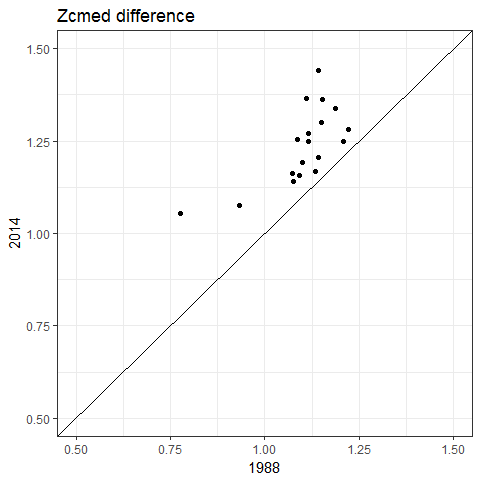
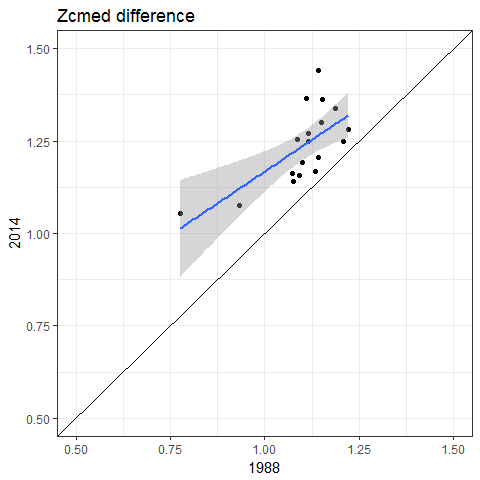
2014 v 1988 regressions

Changed region(s): [[0.375, 0.1875, 0.75, 0.5938]]

diff --git a/tampa_comp2.html b/tampa_comp2.html
@@ -150,14 +150,64 @@ tocmp &lt;- unite(sec, 'lon_lat', Longitude, Latitude, remove = F) %&gt;%
   spread(yr, z_c_all) %&gt;% 
   mutate(zcdif = `2014` - `1988`)
 
-# light requirements between years
+range(tocmp$`1988`)</code></pre>
+<pre><code>## [1] 0.7755338 1.2216710</code></pre>
+<pre class="r"><code>range(tocmp$`2014`)</code></pre>
+<pre><code>## [1] 1.054655 1.439785</code></pre>
+<pre class="r"><code>mod &lt;- lm(`2014` ~ `1988`, tocmp)
+summary(mod)</code></pre>
+<pre><code>## 
+## Call:
+## lm(formula = `2014` ~ `1988`, data = tocmp)
+## 
+## Residuals:
+##      Min       1Q   Median       3Q      Max 
+## -0.09124 -0.05863 -0.01906  0.03841  0.17439 
+## 
+## Coefficients:
+##             Estimate Std. Error t value Pr(&gt;|t|)   
+## (Intercept)   0.4799     0.2008   2.389  0.02954 * 
+## `1988`        0.6875     0.1817   3.783  0.00163 **
+## ---
+## Signif. codes:  0 '***' 0.001 '**' 0.01 '*' 0.05 '.' 0.1 ' ' 1
+## 
+## Residual standard error: 0.07702 on 16 degrees of freedom
+## Multiple R-squared:  0.4721, Adjusted R-squared:  0.4391 
+## F-statistic: 14.31 on 1 and 16 DF,  p-value: 0.001631</code></pre>
+<pre class="r"><code>tocmp &lt;- mutate(tocmp, 
+  res = resid(mod)
+)
+
+summary(lm(res ~ Latitude*Longitude, tocmp))</code></pre>
+<pre><code>## 
+## Call:
+## lm(formula = res ~ Latitude * Longitude, data = tocmp)
+## 
+## Residuals:
+##      Min       1Q   Median       3Q      Max 
+## -0.11669 -0.02643 -0.00413  0.02045  0.12330 
+## 
+## Coefficients:
+##                     Estimate Std. Error t value Pr(&gt;|t|)   
+## (Intercept)        19450.131   6017.970   3.232  0.00602 **
+## Latitude            -702.523    216.939  -3.238  0.00595 **
+## Longitude            235.516     72.857   3.233  0.00602 **
+## Latitude:Longitude    -8.507      2.626  -3.239  0.00594 **
+## ---
+## Signif. codes:  0 '***' 0.001 '**' 0.01 '*' 0.05 '.' 0.1 ' ' 1
+## 
+## Residual standard error: 0.05859 on 14 degrees of freedom
+## Multiple R-squared:  0.4937, Adjusted R-squared:  0.3853 
+## F-statistic: 4.551 on 3 and 14 DF,  p-value: 0.01996</code></pre>
+<pre class="r"><code># light requirements between years
 ggplot(tocmp, aes(x = `1988`, y = `2014`)) + 
   geom_point() + 
+  stat_smooth(method = 'lm') + 
   theme_bw() + 
   geom_abline(intercept = 0, slope = 1) + 
   coord_cartesian(ylim = c(0.5, 1.5), xlim = c(0.5, 1.5)) +
   ggtitle('Zcmed difference')</code></pre>
[2 lines of base64/hex data omitted]
 <pre class="r"><code># residual variation by location of difference in light requirements
 ggplot(tocmp, aes(x = Longitude, y = Latitude, colour = zcdif, size = zcdif)) + 
   geom_point() + 
@@ -262,14 +312,62 @@ tocmp &lt;- unite(sec, 'lon_lat', Longitude, Latitude, remove = F) %&gt;%
   spread(yr, light) %&gt;% 
   mutate(sidif = `2014` - `1988`)
 
-# light requirements between years
+range(tocmp$`1988`)</code></pre>
+<pre><code>## [1] 20.71158 60.09769</code></pre>
+<pre class="r"><code>range(tocmp$`2014`)</code></pre>
+<pre><code>## [1] 33.70088 63.16836</code></pre>
+<pre class="r"><code>mod &lt;- lm(`2014` ~ `1988`, tocmp)
+summary(mod)</code></pre>
+<pre><code>## 
+## Call:
+## lm(formula = `2014` ~ `1988`, data = tocmp)
+## 
+## Residuals:
+##    Min     1Q Median     3Q    Max 
+## -7.049 -2.060  0.380  3.304  5.571 
+## 
+## Coefficients:
+##             Estimate Std. Error t value Pr(&gt;|t|)    
+## (Intercept) 18.25800    4.42396   4.127  0.00079 ***
+## `1988`       0.70820    0.09603   7.375 1.57e-06 ***
+## ---
+## Signif. codes:  0 '***' 0.001 '**' 0.01 '*' 0.05 '.' 0.1 ' ' 1
+## 
+## Residual standard error: 4.029 on 16 degrees of freedom
+## Multiple R-squared:  0.7727, Adjusted R-squared:  0.7585 
+## F-statistic: 54.38 on 1 and 16 DF,  p-value: 1.568e-06</code></pre>
+<pre class="r"><code>tocmp &lt;- mutate(tocmp, 
+  res = resid(mod)
+)
+
+summary(lm(res ~ Latitude*Longitude, tocmp))</code></pre>
+<pre><code>## 
+## Call:
+## lm(formula = res ~ Latitude * Longitude, data = tocmp)
+## 
+## Residuals:
+##    Min     1Q Median     3Q    Max 
+## -4.406 -1.823 -0.284  1.296  5.371 
+## 
+## Coefficients:
+##                     Estimate Std. Error t value Pr(&gt;|t|)
+## (Intercept)        -455604.9   320466.4  -1.422    0.177
+## Latitude             16543.3    11552.3   1.432    0.174
+## Longitude            -5525.5     3879.7  -1.424    0.176
+## Latitude:Longitude     200.6      139.9   1.435    0.173
+## 
+## Residual standard error: 3.12 on 14 degrees of freedom
+## Multiple R-squared:  0.4753, Adjusted R-squared:  0.3629 
+## F-statistic: 4.227 on 3 and 14 DF,  p-value: 0.02527</code></pre>
+<pre class="r"><code># light requirements between years
 ggplot(tocmp, aes(x = `1988`, y = `2014`)) + 
   geom_point() + 
+  stat_smooth(method = 'lm') + 
   theme_bw() + 
   geom_abline(intercept = 0, slope = 1) + 
   coord_cartesian(ylim = c(0, 100), xlim = c(0, 100)) +
   ggtitle('SI difference')</code></pre>
[2 lines of base64/hex data omitted]
 <pre class="r"><code># residual variation by location of difference in light requirements
 ggplot(tocmp, aes(x = Longitude, y = Latitude, colour = sidif, size = sidif)) + 
   geom_point() + 

diff --git a/tampa_comp2.md b/tampa_comp2.md
@@ -34,9 +34,83 @@ tocmp <- unite(sec, 'lon_lat', Longitude, Latitude, remove = F) %>%
   spread(yr, z_c_all) %>% 
   mutate(zcdif = `2014` - `1988`)
 
+range(tocmp$`1988`)
+```
+
+```
+## [1] 0.7755338 1.2216710
+```
+
+```r
+range(tocmp$`2014`)
+```
+
+```
+## [1] 1.054655 1.439785
+```
+
+```r
+mod <- lm(`2014` ~ `1988`, tocmp)
+summary(mod)
+```
+
+```
+## 
+## Call:
+## lm(formula = `2014` ~ `1988`, data = tocmp)
+## 
+## Residuals:
+##      Min       1Q   Median       3Q      Max 
+## -0.09124 -0.05863 -0.01906  0.03841  0.17439 
+## 
+## Coefficients:
+##             Estimate Std. Error t value Pr(>|t|)   
+## (Intercept)   0.4799     0.2008   2.389  0.02954 * 
+## `1988`        0.6875     0.1817   3.783  0.00163 **
+## ---
+## Signif. codes:  0 '***' 0.001 '**' 0.01 '*' 0.05 '.' 0.1 ' ' 1
+## 
+## Residual standard error: 0.07702 on 16 degrees of freedom
+## Multiple R-squared:  0.4721,	Adjusted R-squared:  0.4391 
+## F-statistic: 14.31 on 1 and 16 DF,  p-value: 0.001631
+```
+
+```r
+tocmp <- mutate(tocmp, 
+  res = resid(mod)
+)
+
+summary(lm(res ~ Latitude*Longitude, tocmp))
+```
+
+```
+## 
+## Call:
+## lm(formula = res ~ Latitude * Longitude, data = tocmp)
+## 
+## Residuals:
+##      Min       1Q   Median       3Q      Max 
+## -0.11669 -0.02643 -0.00413  0.02045  0.12330 
+## 
+## Coefficients:
+##                     Estimate Std. Error t value Pr(>|t|)   
+## (Intercept)        19450.131   6017.970   3.232  0.00602 **
+## Latitude            -702.523    216.939  -3.238  0.00595 **
+## Longitude            235.516     72.857   3.233  0.00602 **
+## Latitude:Longitude    -8.507      2.626  -3.239  0.00594 **
+## ---
+## Signif. codes:  0 '***' 0.001 '**' 0.01 '*' 0.05 '.' 0.1 ' ' 1
+## 
+## Residual standard error: 0.05859 on 14 degrees of freedom
+## Multiple R-squared:  0.4937,	Adjusted R-squared:  0.3853 
+## F-statistic: 4.551 on 3 and 14 DF,  p-value: 0.01996
+```
+
+```r
 # light requirements between years
 ggplot(tocmp, aes(x = `1988`, y = `2014`)) + 
   geom_point() + 
+  stat_smooth(method = 'lm') + 
   theme_bw() + 
   geom_abline(intercept = 0, slope = 1) + 
   coord_cartesian(ylim = c(0.5, 1.5), xlim = c(0.5, 1.5)) +
@@ -184,9 +258,81 @@ tocmp <- unite(sec, 'lon_lat', Longitude, Latitude, remove = F) %>%
   spread(yr, light) %>% 
   mutate(sidif = `2014` - `1988`)
 
+range(tocmp$`1988`)
+```
+
+```
+## [1] 20.71158 60.09769
+```
+
+```r
+range(tocmp$`2014`)
+```
+
+```
+## [1] 33.70088 63.16836
+```
+
+```r
+mod <- lm(`2014` ~ `1988`, tocmp)
+summary(mod)
+```
+
+```
+## 
+## Call:
+## lm(formula = `2014` ~ `1988`, data = tocmp)
+## 
+## Residuals:
+##    Min     1Q Median     3Q    Max 
+## -7.049 -2.060  0.380  3.304  5.571 
+## 
+## Coefficients:
+##             Estimate Std. Error t value Pr(>|t|)    
+## (Intercept) 18.25800    4.42396   4.127  0.00079 ***
+## `1988`       0.70820    0.09603   7.375 1.57e-06 ***
+## ---
+## Signif. codes:  0 '***' 0.001 '**' 0.01 '*' 0.05 '.' 0.1 ' ' 1
+## 
+## Residual standard error: 4.029 on 16 degrees of freedom
+## Multiple R-squared:  0.7727,	Adjusted R-squared:  0.7585 
+## F-statistic: 54.38 on 1 and 16 DF,  p-value: 1.568e-06
+```
+
+```r
+tocmp <- mutate(tocmp, 
+  res = resid(mod)
+)
+
+summary(lm(res ~ Latitude*Longitude, tocmp))
+```
+
+```
+## 
+## Call:
+## lm(formula = res ~ Latitude * Longitude, data = tocmp)
+## 
+## Residuals:
+##    Min     1Q Median     3Q    Max 
+## -4.406 -1.823 -0.284  1.296  5.371 
+## 
+## Coefficients:
+##                     Estimate Std. Error t value Pr(>|t|)
+## (Intercept)        -455604.9   320466.4  -1.422    0.177
+## Latitude             16543.3    11552.3   1.432    0.174
+## Longitude            -5525.5     3879.7  -1.424    0.176
+## Latitude:Longitude     200.6      139.9   1.435    0.173
+## 
+## Residual standard error: 3.12 on 14 degrees of freedom
+## Multiple R-squared:  0.4753,	Adjusted R-squared:  0.3629 
+## F-statistic: 4.227 on 3 and 14 DF,  p-value: 0.02527
+```
+
+```r
 # light requirements between years
 ggplot(tocmp, aes(x = `1988`, y = `2014`)) + 
   geom_point() + 
+  stat_smooth(method = 'lm') + 
   theme_bw() + 
   geom_abline(intercept = 0, slope = 1) + 
   coord_cartesian(ylim = c(0, 100), xlim = c(0, 100)) +
